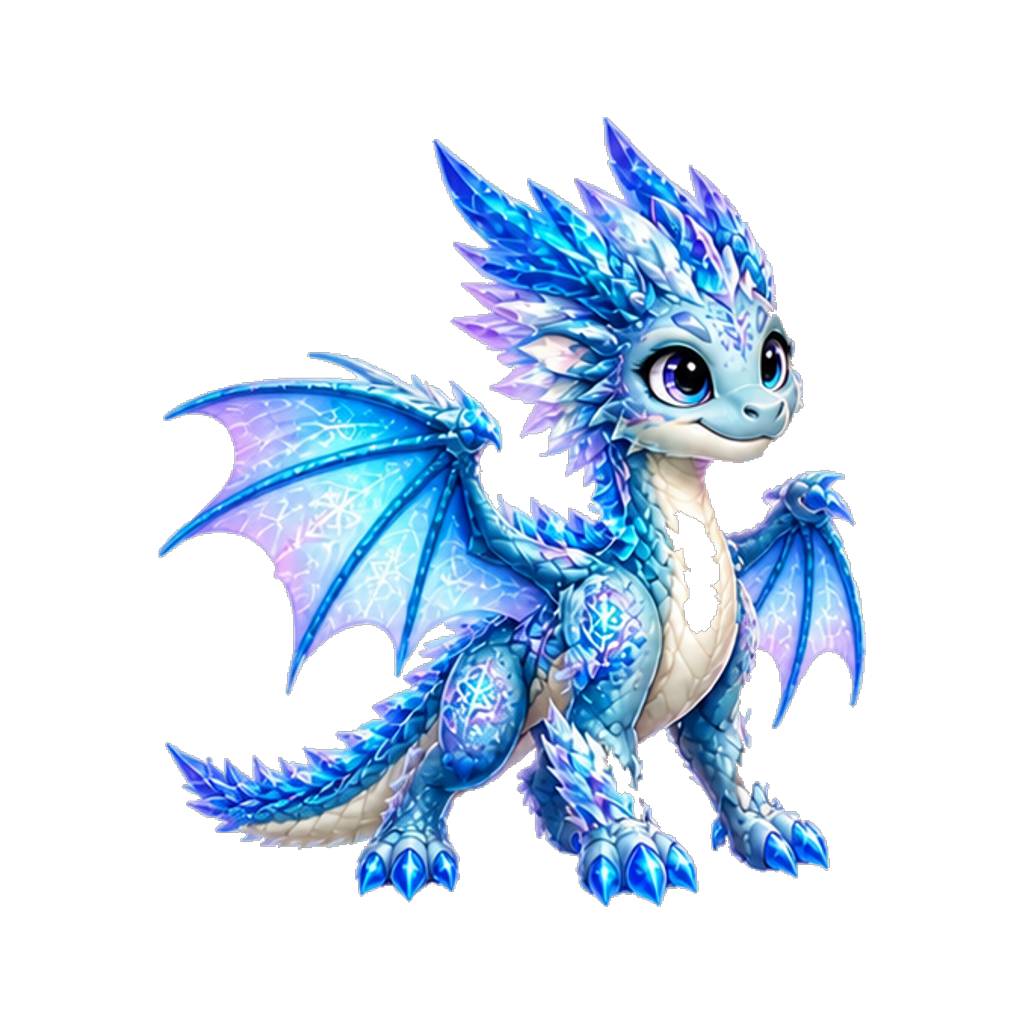
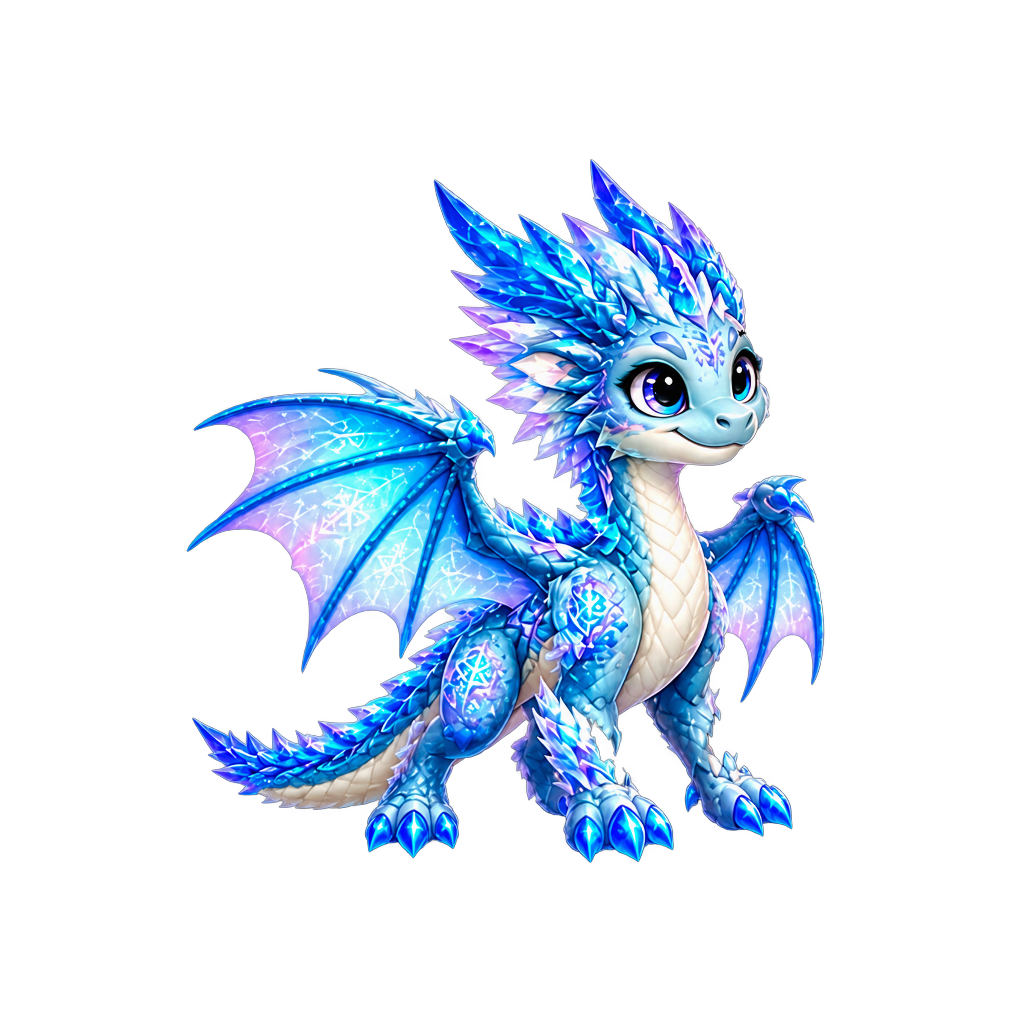
fix: repair Frostfable wyrmling chest

Changed region(s): [[0.1562, 0.125, 0.8438, 0.9062]]

diff --git a/test/selected_sprite_safety_test.dart b/test/selected_sprite_safety_test.dart
@@ -194,6 +194,29 @@ void main() {
     }
   }, timeout: const Timeout(Duration(minutes: 8)));
 
+  test('Frostfable wyrmling keeps continuous scales through neck and chest',
+      () {
+    final sprite = img.decodeImage(
+      File(
+        DragonArtwork.safeStandaloneFormAsset('frostfable', 'wyrmling'),
+      ).readAsBytesSync(),
+    );
+    expect(sprite, isNotNull);
+    for (final point in const [
+      (650, 455),
+      (656, 505),
+      (663, 555),
+      (670, 605),
+      (675, 655),
+    ]) {
+      expect(
+        sprite!.getPixel(point.$1, point.$2).a,
+        greaterThan(32),
+        reason: 'unexpected transparent chest pixel at $point',
+      );
+    }
+  });
+
   test(
       'Seraphscale uses complete standalone artwork where replacement was needed',
       () {

diff --git a/DRAGONHAVEN_POST_AUDIT_PLAN.md b/DRAGONHAVEN_POST_AUDIT_PLAN.md
@@ -60,6 +60,16 @@ krijgen nog de compatibele supporterstandaard. Analyzer en alle 365 tests zijn
 groen. Er is geen appversie verhoogd, geen migratie toegevoegd en
 productie/openbare release zijn niet gewijzigd.**
 
+Actuele onuitgebrachte spritecorrectie: **de Frostfable-wyrmling is vanaf zijn
+bestaande vorm gericht met de ingebouwde imagegen-route hersteld. De onbedoelde
+transparante verticale opening door hals en borst is vervangen door doorlopende
+ivoorwitte ijsschubben. De bestaande assetpipeline heeft het resultaat vervolgens
+op een 1024×1024 transparant canvas met ruime veiligheidsmarges geplaatst. Echte
+alpha, vier buitenmarges, vijf hals-/borstpunten, alle geselecteerde drakenvormen
+en de volledige regressiesuite zijn gecontroleerd. Analyzer en alle 366 tests zijn
+groen. Er is geen appversie verhoogd, geen server- of migratiewijziging gedaan en
+productie/openbare release zijn niet gewijzigd.**
+
 Bronnen: [DRAGONHAVEN_AUDIT_2026-08-28.md](DRAGONHAVEN_AUDIT_2026-08-28.md),
 [SERVER_IMPROVEMENTS.md](SERVER_IMPROVEMENTS.md),
 [DISTRIBUTION.md](DISTRIBUTION.md) en [PUBLIC_LAUNCH.md](PUBLIC_LAUNCH.md)
@@ -1205,6 +1215,7 @@ Een taak of mijlpaal is pas gereed wanneer:
 | 01-09-2026 | Special Event-afteller, beknopte verrassingsbeloningen en expertiseclaim lokaal gebouwd | Codex | `adventure.dart`, `dragonhaven_systems.dart`, `adventure_hub_screen.dart`, `special_adventure_test.dart`, `new_feature_batch_widget_test.dart`, `household_provider_test.dart` | De actieve eventwindow voedt een live dagen/uren/minuten/seconden-teller op kaart en detail. Het kippenevent toont geen dubbele verhaaltekst of Special Chest-inhoud meer; relic/Music Chest hebben geen roll-/verrassingsuitleg. De configureerbare rewardbundle en claim geven elk +25 Might, Spirit en Arcana binnen de expertisegrens en tonen die op beschikbare, actieve en voltooide Adventures. Exact 360×640 dp is overflowvrij, analyzer meldt nul problemen en alle 363 tests slagen. Geen versie-, server-, migratie- of releasewijziging. |
 | 01-09-2026 | Vanityframe behoudt volledige portretmaat en badge heeft geen houder | Codex | `online_account_access.dart`, `online_social_test.dart`, `new_feature_batch_widget_test.dart` | De gedeelde KeeperPortrait-compositie verkleint een ingelijst portret niet langer tot 64%. De gevraagde portret- en rarityringdiameter blijft gelijk aan de uitvoering zonder frame; het frame krijgt buitenom zijn eigen grotere canvas. De geselecteerde badge wordt rechtstreeks als transparante sprite getoond zonder witte cirkel, rand of houderschaduw. Account-keuze, Friends-kaart, vriendenprofiel, Draconomicon-, trialrecord- en tradeflow zijn regressiegetest. Analyzer meldt nul problemen en alle 363 tests slagen. Geen versie-, server-, migratie- of releasewijziging. |
 | 01-09-2026 | Uitgeschakelde vanitykeuze blijft opgeslagen | Codex | `household_provider.dart`, `household_provider_test.dart`, `online_social_test.dart` | De restorelaag onderscheidt nu een expliciet opgeslagen `null` (bewust geen frame/badge) van een legacy save waarin het keuzeveld ontbreekt. Lokaal herstarten, cloudrestore en online profielpush behouden de lege keuze; bezit van de supporter-items blijft intact en oude saves krijgen nog veilig de historische standaardselectie. Analyzer meldt nul problemen en alle 365 tests slagen. Geen schema-, server-, migratie-, versie- of releasewijziging. |
+| 01-09-2026 | Frostfable-wyrmling borst en alfaveiligheid hersteld | Codex | `frostfable_wyrmling_safe.webp`, `prepare_transparent_sprite.dart`, `audit_sprite_alpha.dart`, `selected_sprite_safety_test.dart` | De transparante breuk door de borst is via de ingebouwde imagegen-editroute gereconstrueerd als doorlopende ivoorwitte ijsschubben. De bestaande assetpipeline leverde een 1024px transparante WebP met minimaal 117px technische marge; een nieuwe test bewaakt vijf punten langs hals en borst naast de bestaande bronmarge- en renderpasses. Analyzer meldt nul problemen en alle 366 tests slagen. Geen codecontract-, server-, migratie-, versie- of releasewijziging. |
 
 ## Onderhoud van dit plan
 
